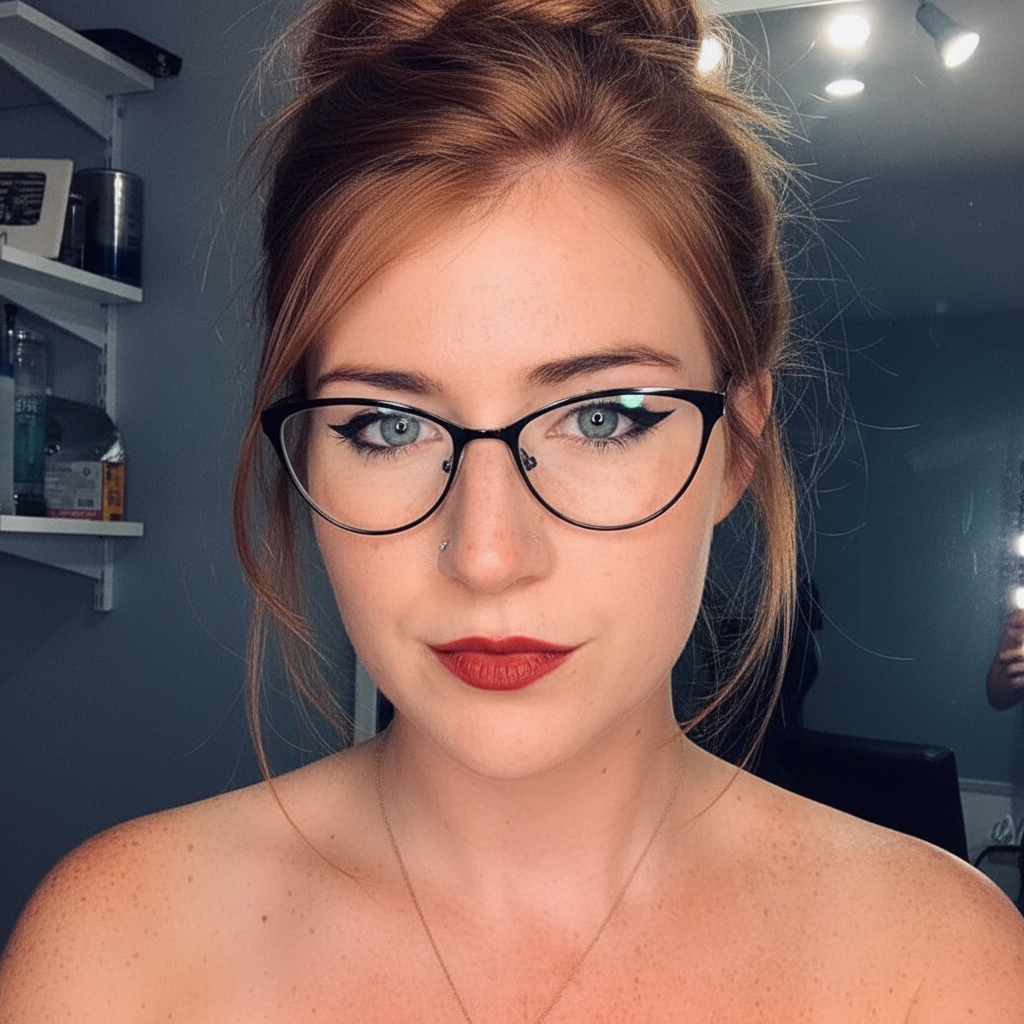
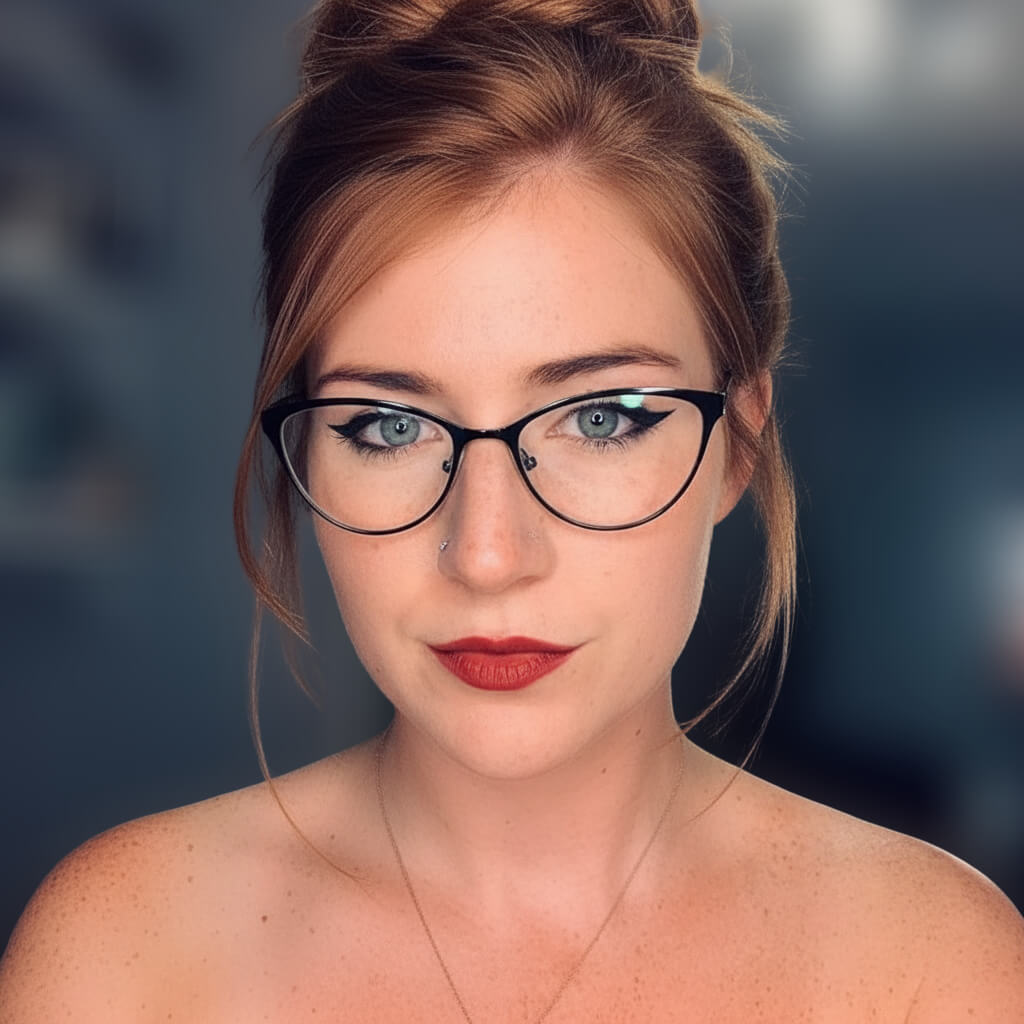
updated hero and tags to omit ai

diff --git a/components/LandingPage.tsx b/components/LandingPage.tsx
@@ -184,9 +184,7 @@ const LandingPage: React.FC<LandingPageProps> = ({ onGetStarted, onSignIn, user 
                         className="w-full h-full object-cover"
                       />
                       {/* Sparkle decorations */}
-                      <Sparkles className="absolute top-6 right-6 text-amber-400 animate-pulse" size={20} />
-                      <Sparkles className="absolute bottom-10 left-6 text-white/60 animate-pulse" size={16} style={{ animationDelay: '0.5s' }} />
-                      <Sparkles className="absolute top-1/3 right-10 text-rose-300 animate-pulse" size={14} style={{ animationDelay: '1s' }} />
+                     
                       {/* Decorative elements */}
                       <div className="absolute top-4 left-4 px-3 py-1.5 bg-rose-500/70 backdrop-blur-sm rounded-lg text-xs font-medium text-white">
                         After
@@ -468,8 +466,8 @@ const LandingPage: React.FC<LandingPageProps> = ({ onGetStarted, onSignIn, user 
           
           <p className="text-slate-400 text-lg mb-10 max-w-xl mx-auto">
             {isProduction 
-              ? "Request access and start experimenting with AI-powered style transformations."
-              : "Create an account and start experimenting with AI-powered style transformations today."
+              ? "Request access and start experimenting with style transformations."
+              : "Create an account and start experimenting with style transformations today."
             }
           </p>
 

diff --git a/components/GalleryModal.tsx b/components/GalleryModal.tsx
@@ -123,13 +123,13 @@ const GalleryModal: React.FC<GalleryModalProps> = ({ isOpen, onClose, userId }) 
       if (navigator.share && navigator.canShare && navigator.canShare({ files: [file] })) {
         await navigator.share({
           title: 'My Glamatron Transformation',
-          text: 'Check out my AI-powered style transformation!',
+          text: 'Check out my style transformation!',
           files: [file],
         });
       } else if (navigator.share) {
         await navigator.share({
           title: 'My Glamatron Transformation',
-          text: 'Check out my AI-powered style transformation! Created with Glamatron.',
+          text: 'Check out my style transformation! Created with Glamatron.',
         });
       } else {
         // Fallback: copy image URL or download

diff --git a/App.tsx b/App.tsx
@@ -624,7 +624,7 @@ const App: React.FC = () => {
         try {
           await navigator.share({
             title: 'My Glamatron Transformation',
-            text: 'Check out my AI-powered style transformation!',
+            text: 'Check out my style transformation!',
             files: [file],
           });
         } catch (shareErr: any) {
@@ -635,7 +635,7 @@ const App: React.FC = () => {
               try {
                 await navigator.share({
                   title: 'My Glamatron Transformation',
-                  text: 'Check out my AI-powered style transformation! Created with Glamatron.',
+                  text: 'Check out my style transformation! Created with Glamatron.',
                 });
               } catch {
                 handleDownload();

diff --git a/index.html b/index.html
@@ -6,7 +6,7 @@
     <meta name="description" content="Glamatron by Cognitav - Instantly preview new hairstyles, makeup looks, and accessories with AI. Upload your photo, explore styles, and discover your best look in seconds." />
     <meta name="theme-color" content="#e11d48" />
     <link rel="icon" type="image/svg+xml" href="/favicon.svg" />
-    <title>Glamatron - AI-Powered Style Transformation</title>
+    <title>Glamatron - Unlimited styles. Endless you</title>
     <link rel="stylesheet" href="/index.css" />
   </head>
   <body class="bg-slate-50 text-slate-900">

diff --git a/components/AuthModal.tsx b/components/AuthModal.tsx
@@ -244,7 +244,7 @@ const AuthModal: React.FC<AuthModalProps> = ({ isOpen, onClose, onSignIn, defaul
               ) : (
                 <div className="flex items-center justify-center gap-1 mt-2 text-amber-600">
                   <Coins size={16} />
-                  <span className="text-sm font-medium">Join and get 10 free GlamCoins to start</span>
+                  <span className="text-sm font-medium">Join and get 5 free GlamCoins to start</span>
                 </div>
               )}
             </>

diff --git a/README.md b/README.md
@@ -1,6 +1,6 @@
 # StyleMirror AI
 
-AI-powered style transformation app that lets you visualize different looks on your photos. Upload a selfie and customize hair styles, makeup, accessories, and expressions using Google's Gemini AI.
+Style transformation app that lets you visualize different looks on your photos. Upload a selfie and customize hair styles, makeup, accessories, and expressions.
 
 ![StyleMirror AI](https://img.shields.io/badge/Powered%20by-Gemini%20AI-blue)
 
